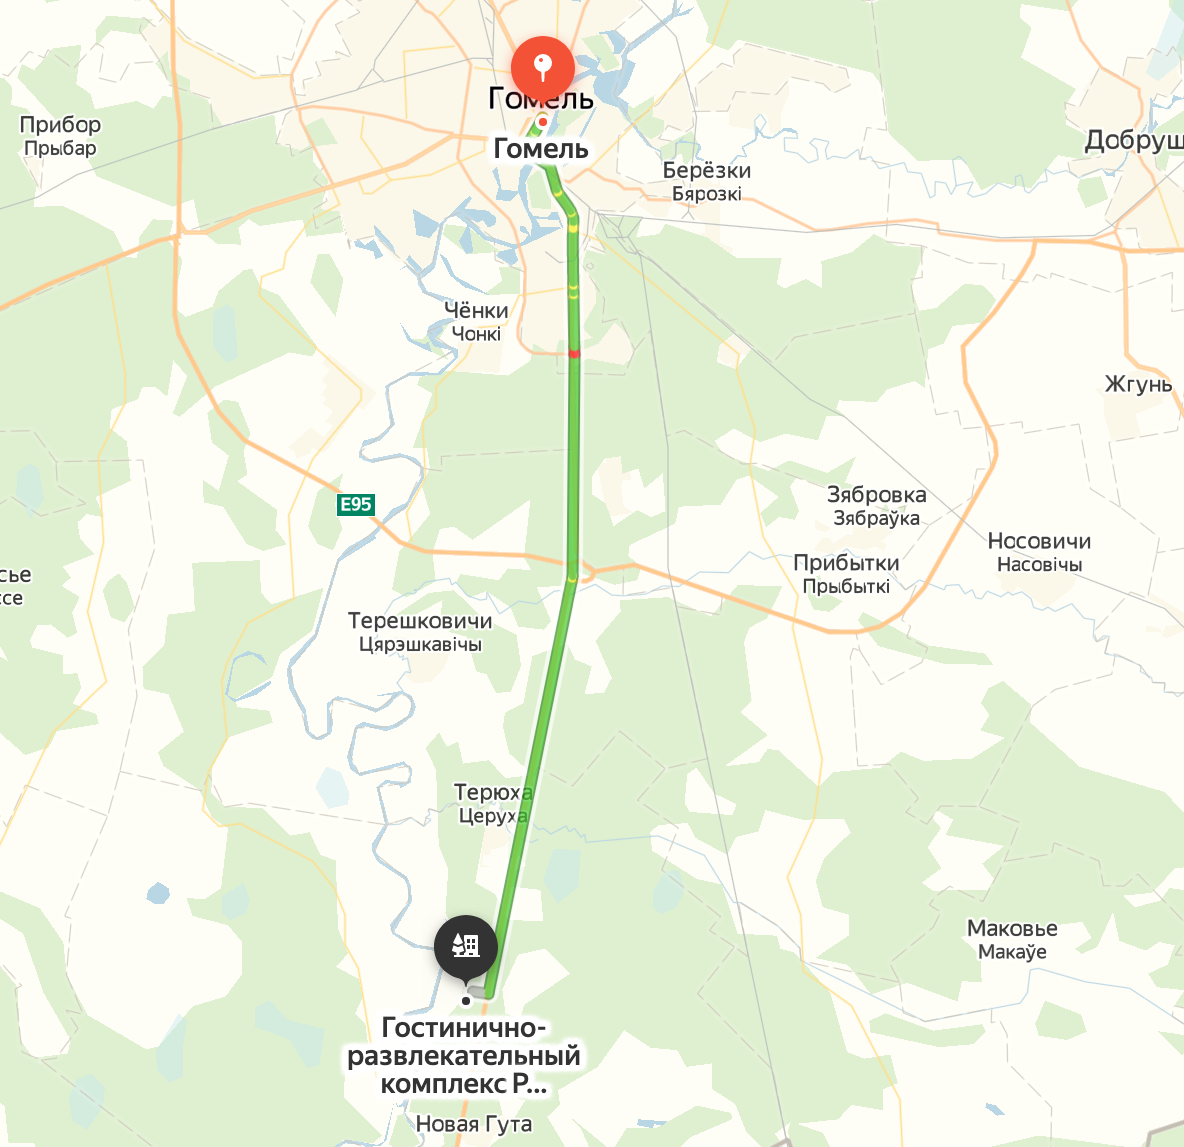
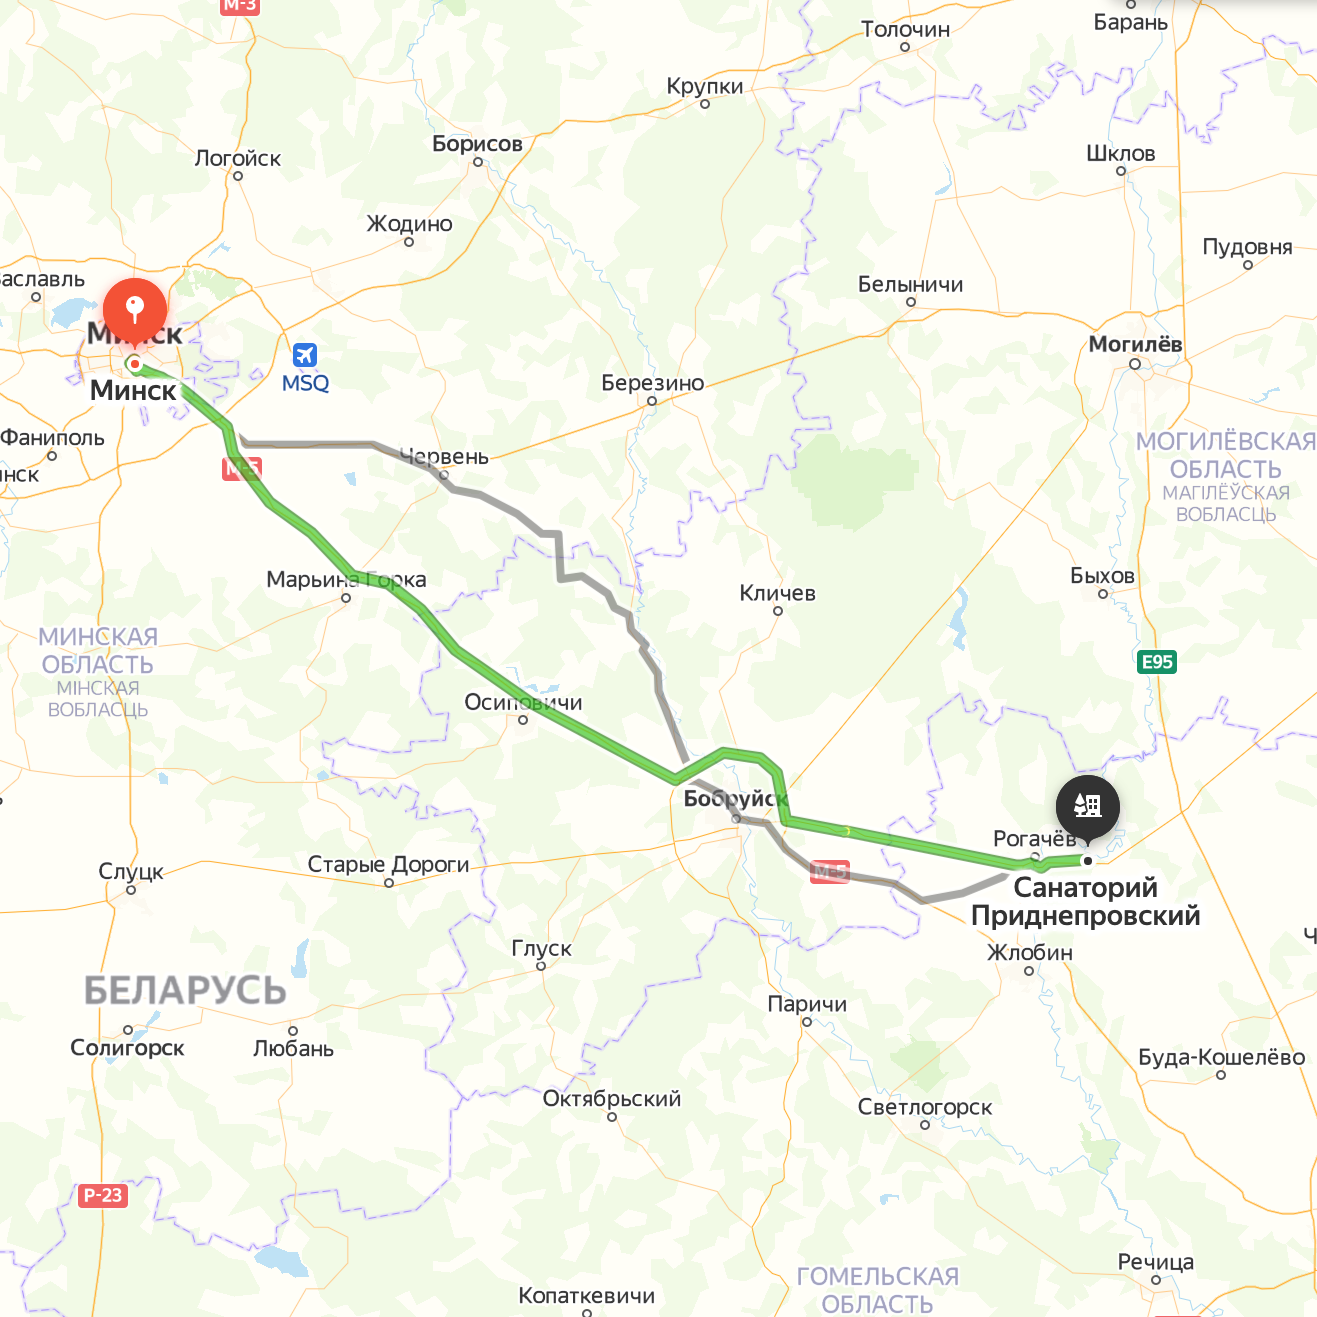
Update place

diff --git a/src/place/place.html b/src/place/place.html
@@ -28,15 +28,20 @@
             border-color: #808080 !important;
         }
 
-        #place a {
+        #place a.btn {
             color: #FFF;
             background-color: #D33;
             margin-right: 15px;
             margin-top: 5px;
         }
 
+        #place a.link {
+            color: #262626;
+            text-decoration: underline;
+        }
+
         @media (min-width: 768px) {
-            #place a {
+            #place a.btn {
                 margin-top: 15px;
             }
         }
@@ -45,7 +50,8 @@
         <div class="row">
             <div class="col">
                 <h2>Место</h2>
-                <p>База отдыха "Ранчо" расположена за городом Гомель на 22-м км по трассе Гомель-Чернигов.</p>
+                <p>Санаторий "Приднепровский" расположен на берегу Днепра, недалеко от города Рогачева (220 км от
+                    Минска).</p>
             </div>
         </div>
         <div class="row">
@@ -58,27 +64,27 @@
                         <h4>На Машине или Такси</h4>
                     </div>
                     <div class="col-12 d-none d-sm-block">
-                        <p>Из Гомеля через микрорайон Новобелица выехать на Черниговское шоссе до поворота на Студёную
-                            Гуту и возле указателя "Ранчо" повернуть направо.</p>
+                        <p>Из Речицы по указателям до посёлка "Приднепровский".</p>
                     </div>
                     <div class="col-12 d-none d-sm-block">
                         <h4>На Общественном Транспорте</h4>
                     </div>
                     <div class="col-12 d-none d-sm-block">
-                        <p>С Автовокзала автобусом или маршруткой до остановки "Студёная Гута" (или "Терюха" с доплатой
-                            на месте водителю). С остановки по указателю направо через лес 200 м. пешком.</p>
+                        <p>До санатория можно добраться на автобусе или поезде, подробнее <a
+                                href="https://pridneprovskij.by/customers/how-to-get/" target="_blank"
+                                class="link">тут</a>.</p>
                     </div>
                     <div class="col-12 d-none d-sm-block">
                         <h4>Трансфер</h4>
                     </div>
                     <div class="col-12 d-none d-sm-block">
-                        <p>Из города Гомеля и санатория "Золотые пески" дважды в день на микроавтобусе. Детали
+                        <p>Возможен транфер из города Речица. Детали
                             уточняйте у организаторов.</p>
                     </div>
                     <div class="col-12 d-flex justify-content-center justify-content-md-start">
-                        <a href="https://www.google.com/maps/place/Hotel+Complex+Rancho/@52.1478687,30.9728086,17z/data=!3m1!4b1!4m8!3m7!1s0x46d456f053d3bc79:0x2b25fcba6e3c749e!5m2!4m1!1i2!8m2!3d52.1478654!4d30.9749973"
+                        <a href="https://www.google.com/maps/place/%D1%81%D0%B0%D0%BD%D0%B0%D1%82%D0%BE%D1%80%D0%B8%D0%B9+%C2%AB%D0%9F%D1%80%D0%B8%D0%B4%D0%BD%D0%B5%D0%BF%D1%80%D0%BE%D0%B2%D1%81%D0%BA%D0%B8%D0%B9%C2%BB/@53.083428,30.1941391,17z/data=!3m1!4b1!4m8!3m7!1s0x46d135e4d728b4c1:0x82baf781e54a1606!5m2!4m1!1i2!8m2!3d53.0834248!4d30.1963278"
                             target="_blank" class="btn btn-danger" role="button">Google Maps</a>
-                        <a href="https://yandex.com/maps/?ll=30.974893%2C52.147997&mode=search&ol=geo&ouri=ymapsbm1%3A%2F%2Forg%3Foid%3D49468307494&z=10"
+                        <a href="https://yandex.by/maps/?ll=29.300624%2C53.413745&mode=search&oid=157138737602&ol=biz&z=7.99"
                             target="_blank" class="btn btn-danger" role="button">Яндекс Карты</a>
                     </div>
                 </div>
